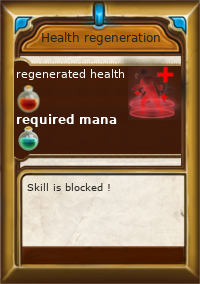
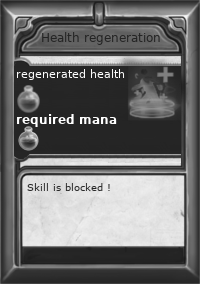
still working on skill descriptions

diff --git a/public/scripts/game/managers/fightWithOpponentManager/fightingStage/skillsDescriptions.js b/public/scripts/game/managers/fightWithOpponentManager/fightingStage/skillsDescriptions.js
@@ -1,5 +1,5 @@
 class Skill {
-  constructor(entity,state,name, manaCost, base) {
+  constructor(entity,state,name, manaCost, requiredLevel, base) {
     this.name = name;
     this.manaCost = manaCost;
     this.base = base;
@@ -8,6 +8,11 @@ class Skill {
     this.groupName = this.name + "_skillDecription";
     this.posX = state.game.width/2;
     this.posY = state.game.height/2;
+    this.normalFrame = undefined;
+    this.blockedFrame = undefined;
+    this.effectText = undefined;
+    this.manaCostText = undefined;
+    this.requiredLevel = requiredLevel;
     this.initialize();
   }
 
@@ -16,8 +21,12 @@ class Skill {
     let state = this.state;
     state["skill_" + this.name + "_description"] = this;
     state[this.groupName] = state.add.group();
-    this.frame = state.game.add.sprite(this.posX,this.posY,"skill_" + this.name + "_description");
-    this.frame.anchor.setTo(0.5);
+
+    this.normalFrame = state.game.add.sprite(this.posX,this.posY,"skill_" + this.name + "_description");
+    this.normalFrame.anchor.setTo(0.5);
+    this.blockedFrame = state.game.add.sprite(this.posX,this.posY,"skill_" + this.name + "_blocked_description");
+    this.blockedFrame.anchor.setTo(0.5);
+
     this.effectText = state.add.text();
     this.manaCostText = state.add.text();
     let textCss = {
@@ -27,7 +36,8 @@ class Skill {
     }
     this.effectText.setStyle(textCss);
     this.manaCostText.setStyle(textCss);
-    state[this.groupName].add(this.frame);
+    state[this.groupName].add(this.normalFrame);
+    state[this.groupName].add(this.blockedFrame);
     state[this.groupName].add(this.effectText);
     state[this.groupName].add(this.manaCostText);
     state[this.groupName].fixedToCamera = true;
@@ -68,7 +78,22 @@ class Skill {
   show() {
     this.bringToTop();
     this.updateStatusText();
+    this.chooseFrame();
     this.state[this.groupName].visible = true;
+  }
+
+  isSkillDisabled() {
+    return this.requiredLevel > this.entity.level || this.manaCost > this.entity.mana;
+  }
+  // choose if show blocked or normal frame
+  chooseFrame() {
+    if(this.isSkillDisabled()){
+      this.blockedFrame.visible = true;
+      this.normalFrame.visible = false;
+    } else {
+      this.blockedFrame.visible = false;
+      this.normalFrame.visible = true;
+    }
   }
 
   hide() {
@@ -86,7 +111,7 @@ class Skill {
 
 class Poison extends Skill{
   constructor(entity,state) {
-    super(entity,state,"poison",10,0);
+    super(entity,state,"poison",10,1,0);
   }
 
   getEffect() {
@@ -96,7 +121,7 @@ class Poison extends Skill{
 
 class Punch extends Skill{
   constructor(entity,state) {
-    super(entity,state,"punch",0,0);
+    super(entity,state,"punch",0,0,0);
   }
 
   getEffect() {
@@ -106,7 +131,7 @@ class Punch extends Skill{
 
 class Ignite extends Skill{
   constructor(entity,state) {
-    super(entity,state,"ignite",15,0);
+    super(entity,state,"ignite",15,2,0);
   }
 
   getEffect() {
@@ -116,7 +141,7 @@ class Ignite extends Skill{
 
 class Entangle extends Skill{
   constructor(entity,state) {
-    super(entity,state,"entangle",20,0);
+    super(entity,state,"entangle",20,2,0);
   }
 
   getEffect() {
@@ -126,7 +151,7 @@ class Entangle extends Skill{
 
 class Health extends Skill{
   constructor(entity,state) {
-    super(entity,state,"health",10,0);
+    super(entity,state,"health",10,2,0);
   }
 
   getEffect() {

diff --git a/public/scripts/game/managers/uiManager/statusPointsManager/statusPointsManager.js b/public/scripts/game/managers/uiManager/statusPointsManager/statusPointsManager.js
@@ -32,16 +32,16 @@ class StatusPointsManager {
     let state = this.state;
 
     state.strengthText.reset(this.positions.questionMark.x+15,this.positions.questionMark.y - 10);
-    state.strengthText.text = "points: " + this.state.player.strength;
+    state.strengthText.text = "pts: " + this.state.player.strength;
 
     state.vitalityText.reset(this.positions.questionMark.x+15,this.positions.questionMark.y - 10 + this.positions.questionMark.difference);
-    state.vitalityText.text = "points: " + this.state.player.vitality;
+    state.vitalityText.text = "pts: " + this.state.player.vitality;
 
     state.itelligenceText.reset(this.positions.questionMark.x+15,this.positions.questionMark.y - 10 + this.positions.questionMark.difference * 2);
-    state.itelligenceText.text = "points: " + this.state.player.intelligence;
+    state.itelligenceText.text = "pts: " + this.state.player.intelligence;
 
     state.agilityText.reset(this.positions.questionMark.x+15,this.positions.questionMark.y - 10 + this.positions.questionMark.difference * 3);
-    state.agilityText.text = "points: " + this.state.player.agility;
+    state.agilityText.text = "pts: " + this.state.player.agility;
 
     state.leftStatusPointsText.reset(this.posX,this.posY - 110);
     state.leftStatusPointsText.text = "left points to add: " + this.state.player.leftStatusPoints;
@@ -99,8 +99,8 @@ class StatusPointsManager {
       state.statusPoints.add(state.statusPoints.plusButtons[i]);
       this.uiManager.blockPlayerMovementsWhenOver(state.statusPoints.plusButtons[i]);
       state.statusPoints.plusButtons[i].addOnInputDownFunction(function(){
-        this.addStatus(this.statusPointsNames[i]);
         this.state.player.leftStatusPoints -= 1;
+        this.addStatus(this.statusPointsNames[i]);
         this.checkIfStatusPointsRemaining();
       },this);
     };
@@ -162,7 +162,7 @@ class StatusPointsManager {
   }
 
   checkIfStatusPointsRemaining() {
-    if(this.state.player.leftStatusPoints < 0){
+    if(this.state.player.leftStatusPoints <= 0){
       this.disableButtons();
     } else {
       this.enableButtons();

diff --git a/public/scripts/game/managers/fightWithOpponentManager/fightingStage/skillsUIManager.js b/public/scripts/game/managers/fightWithOpponentManager/fightingStage/skillsUIManager.js
@@ -62,13 +62,34 @@ class SkillsUIManager {
     };
   };
 
+  updateStageUI() {
+    console.log("updateStageUI called");
+    this.updateButtonsVisibility();
+  }
 
+  updateButtonsVisibility(){
+    for(let i=0;i<this.skillsDictionary.length;i++){
+      let skillDescription = this.state["skill_" + this.skillsDictionary[i].skillName + "_description"];
+      if(skillDescription.isSkillDisabled()) {
+        this.state["skill_" + this.skillsDictionary[i].skillName].disableButton();
+      } else {
+        this.state["skill_" + this.skillsDictionary[i].skillName].enableButton();
+      }
+    }
+  }
 
   showSkillButtons(){
     for(let i=0;i<this.skillsDictionary.length;i++){
-      this.state["skill_" + this.skillsDictionary[i].skillName].visible = true;
+      let skillDescription = this.state["skill_" + this.skillsDictionary[i].skillName + "_description"];
+      if(skillDescription.isSkillDisabled()) {
+        this.state["skill_" + this.skillsDictionary[i].skillName].visible = true;
+        this.state["skill_" + this.skillsDictionary[i].skillName].disableButton();
+      } else {
+        this.state["skill_" + this.skillsDictionary[i].skillName].visible = true;
+        this.state["skill_" + this.skillsDictionary[i].skillName].enableButton();
+      }
       this.state["skill_" + this.skillsDictionary[i].skillName + "_questionMark"].visible = true;
-      this.state["skill_" + this.skillsDictionary[i].skillName + "_description"].visible = false;
+      this.state["skill_" + this.skillsDictionary[i].skillName + "_description"].hide();
     }
   };
 
@@ -76,7 +97,7 @@ class SkillsUIManager {
     for(let i=0;i<this.skillsDictionary.length;i++){
       this.state["skill_" + this.skillsDictionary[i].skillName].visible = false;
       this.state["skill_" + this.skillsDictionary[i].skillName + "_questionMark"].visible = false;
-      this.state["skill_" + this.skillsDictionary[i].skillName + "_description"].visible = false;
+      this.state["skill_" + this.skillsDictionary[i].skillName + "_description"].hide();
     }
   };
 

diff --git a/sockets/skills/skill.js b/sockets/skills/skill.js
@@ -1,7 +1,8 @@
 class Skill {
-  constructor(skillName,manaCost,baseDamage) {
+  constructor(skillName,manaCost,requiredLevel,baseDamage) {
     this.skillName = skillName;
     this.manaCost = manaCost;
+    this.requiredLevel = requiredLevel;
     this.baseDamage = baseDamage;
   };
 
@@ -13,7 +14,7 @@ class Skill {
 
 class Punch extends Skill {
   constructor() {
-    super("punch",1,5);
+    super("punch",0,0,5);
   };
 
   getDamage(player,enemy){
@@ -23,10 +24,15 @@ class Punch extends Skill {
 
 class Poison extends Skill {
   constructor() {
-    super("poison",10,10);
+    super("poison",10,1,10);
   };
 
   getDamage(player,enemy) {
+    if(player.level){
+      if(player.level < this.requiredLevel){
+        return;
+      }
+    }
     enemy.health -= player.attack * 2;
     player.mana -= this.manaCost;
   };
@@ -34,10 +40,15 @@ class Poison extends Skill {
 
 class Ignite extends Skill {
   constructor() {
-    super("ignite",15,15);
+    super("ignite",15,2,15);
   };
 
   getDamage(player,enemy) {
+    if(player.level){
+      if(player.level < this.requiredLevel){
+        return;
+      }
+    }
     enemy.health -= player.attack * 4;
     player.mana -= this.manaCost;
   };
@@ -45,10 +56,15 @@ class Ignite extends Skill {
 
 class Entangle extends Skill {
   constructor() {
-    super("entangle",20,20);
+    super("entangle",20,2,20);
   };
 
   getDamage(player,enemy) {
+    if(player.level){
+      if(player.level < this.requiredLevel){
+        return;
+      }
+    }
     enemy.health -= player.attack * 5;
     player.mana -= this.manaCost;
   };
@@ -56,10 +72,15 @@ class Entangle extends Skill {
 
 class Health extends Skill {
   constructor() {
-    super("health",10,10);
+    super("health",10,2,10);
   };
 
   getDamage(player,enemy) {
+    if(player.level){
+      if(player.level < this.requiredLevel){
+        return;
+      }
+    }
     player.health += player.maxHealth/10;
     player.health = Math.min(player.health,player.maxHealth);
     player.mana -= this.manaCost;

diff --git a/public/scripts/game/states/LoadState.js b/public/scripts/game/states/LoadState.js
@@ -17,11 +17,19 @@ let LoadState = {
     /* Info and dialog sprites */
     this.load.spritesheet("okButton", "assets/infoTables/okButton.png",200,92);
     this.load.image("wonInfo", "assets/infoTables/wonInfo.png");
+
     this.load.image("skill_punch_description","assets/fight/skills/skillDescriptions/skill_punch_description.png");
     this.load.image("skill_health_description","assets/fight/skills/skillDescriptions/skill_health_description.png");
     this.load.image("skill_poison_description","assets/fight/skills/skillDescriptions/skill_poison_description.png");
     this.load.image("skill_ignite_description","assets/fight/skills/skillDescriptions/skill_ignite_description.png");
     this.load.image("skill_entangle_description","assets/fight/skills/skillDescriptions/skill_entangle_description.png");
+
+    this.load.image("skill_punch_blocked_description","assets/fight/skills/skillDescriptions/skill_punch_blocked_description.png");
+    this.load.image("skill_health_blocked_description","assets/fight/skills/skillDescriptions/skill_health_blocked_description.png");
+    this.load.image("skill_poison_blocked_description","assets/fight/skills/skillDescriptions/skill_poison_blocked_description.png");
+    this.load.image("skill_ignite_blocked_description","assets/fight/skills/skillDescriptions/skill_ignite_blocked_description.png");
+    this.load.image("skill_entangle_blocked_description","assets/fight/skills/skillDescriptions/skill_entangle_blocked_description.png");
+
     this.load.image("questionMark","assets/infoTables/questionMark.png");
     this.load.spritesheet("plusButton","assets/UI/plusButton.png",50,50);
     this.load.spritesheet("closeButton","assets/UI/closeButton.png",50,50);

diff --git a/public/scripts/game/managers/fightWithOpponentManager/fightWithOpponentManager.js b/public/scripts/game/managers/fightWithOpponentManager/fightWithOpponentManager.js
@@ -17,8 +17,13 @@ class FightWithOpponentManager {
     this.onResize();
   };
 
-  updateEnemyHealth() {
+  updateStageUI() {
+    this.fightingStageUIManager.updateStageUI();
+  }
+
+  updateEnemyHealth(enemyHealth) {
     let state = this.state;
+    state.player.opponent.health = enemyHealth;
     state.fullHpBarEnemy.width = state.player.opponent.health/state.player.opponent.maxHealth * state.emptyHpBarEnemy.width;
   };
 
@@ -47,6 +52,8 @@ class FightWithOpponentManager {
     let state = this.state;
     this.currentEnemy = enemy;
     this.state.setFightingModeOn();
+    player.health = player.maxHealth;
+    player.mana = player.maxMana;
     player.setFightingMode(); // player wont send any data about his position to the server while fighting
     player.opponent = enemy;
     state.fightingStage.visible = true;

diff --git a/public/scripts/game/managers/socketsManager.js b/public/scripts/game/managers/socketsManager.js
@@ -76,12 +76,11 @@ class SocketsManager {
 
     this.handler.socket.on("fightMove", function(data){
       console.log("x?x?x?x?x")
-      let enemy = self.handler.currentState.player.opponent;
-      enemy.health = data.enemyHealth;
       // self.handler.currentState.player.health = data.playerHealth;
       self.handler.currentState.player.mana = data.playerMana;
       self.handler.currentState.fightWithOpponentManager.animateEnemySkill(data);
-      self.handler.currentState.fightWithOpponentManager.updateEnemyHealth();
+      self.handler.currentState.fightWithOpponentManager.updateEnemyHealth(data.enemyHealth);
+      self.handler.currentState.fightWithOpponentManager.updateStageUI();
     });
 
     this.handler.socket.on("playerUpdate", function(data){

diff --git a/sockets/enemies/enemy.js b/sockets/enemies/enemy.js
@@ -24,7 +24,7 @@ class Enemy {
 class Spider extends Enemy {
   constructor(x,y,map) {
     let id = Math.floor(Math.random() * 100000) + "spider";
-    super(x,y,map,id,"spider",1000,null,null,"poison");
+    super(x,y,map,id,"spider",100,null,null,"poison");
   }
 };
 

diff --git a/public/scripts/game/managers/fightWithOpponentManager/fightingStage/fightingStageUIManager.js b/public/scripts/game/managers/fightWithOpponentManager/fightingStage/fightingStageUIManager.js
@@ -45,6 +45,10 @@ class FightingStageUIManager {
     state.fightingStage.fixedToCamera = true;
   };
 
+  updateStageUI() {
+    this.skillsUIManager.updateStageUI();
+  }
+
   animateEnemySkill(skillData){
     this.skillsUIManager.animateEnemySkill(skillData);
   }
